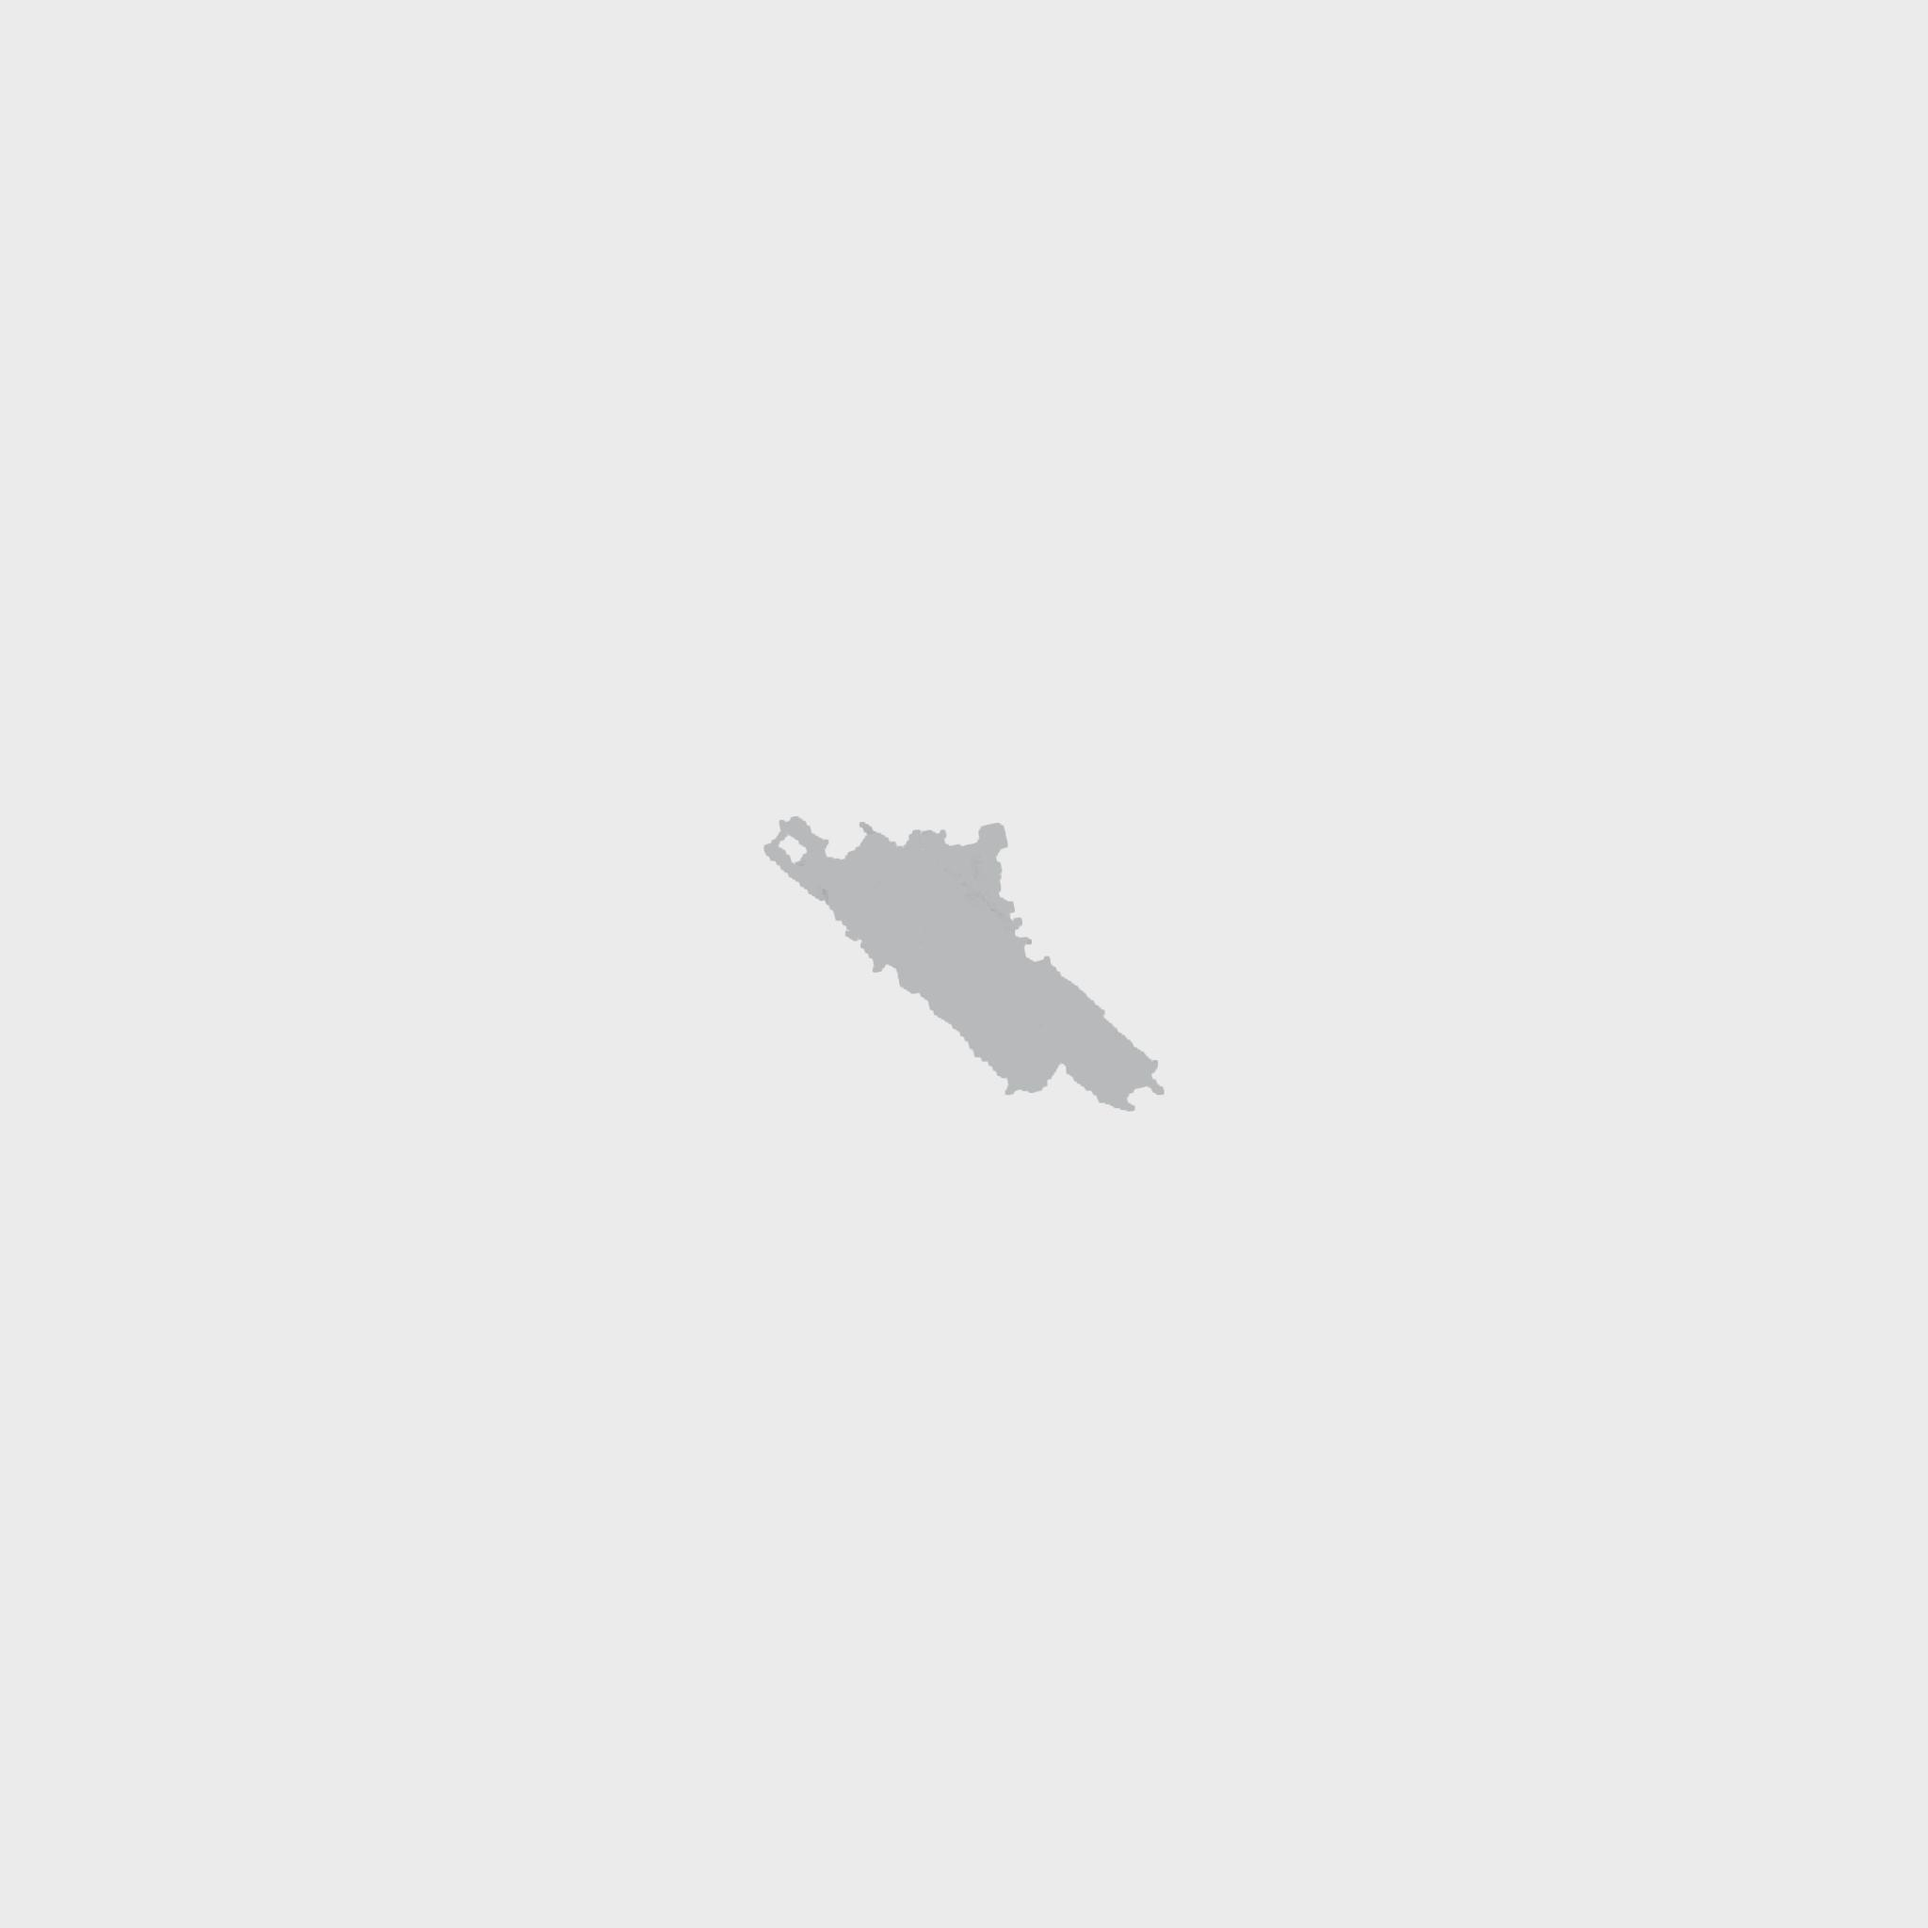
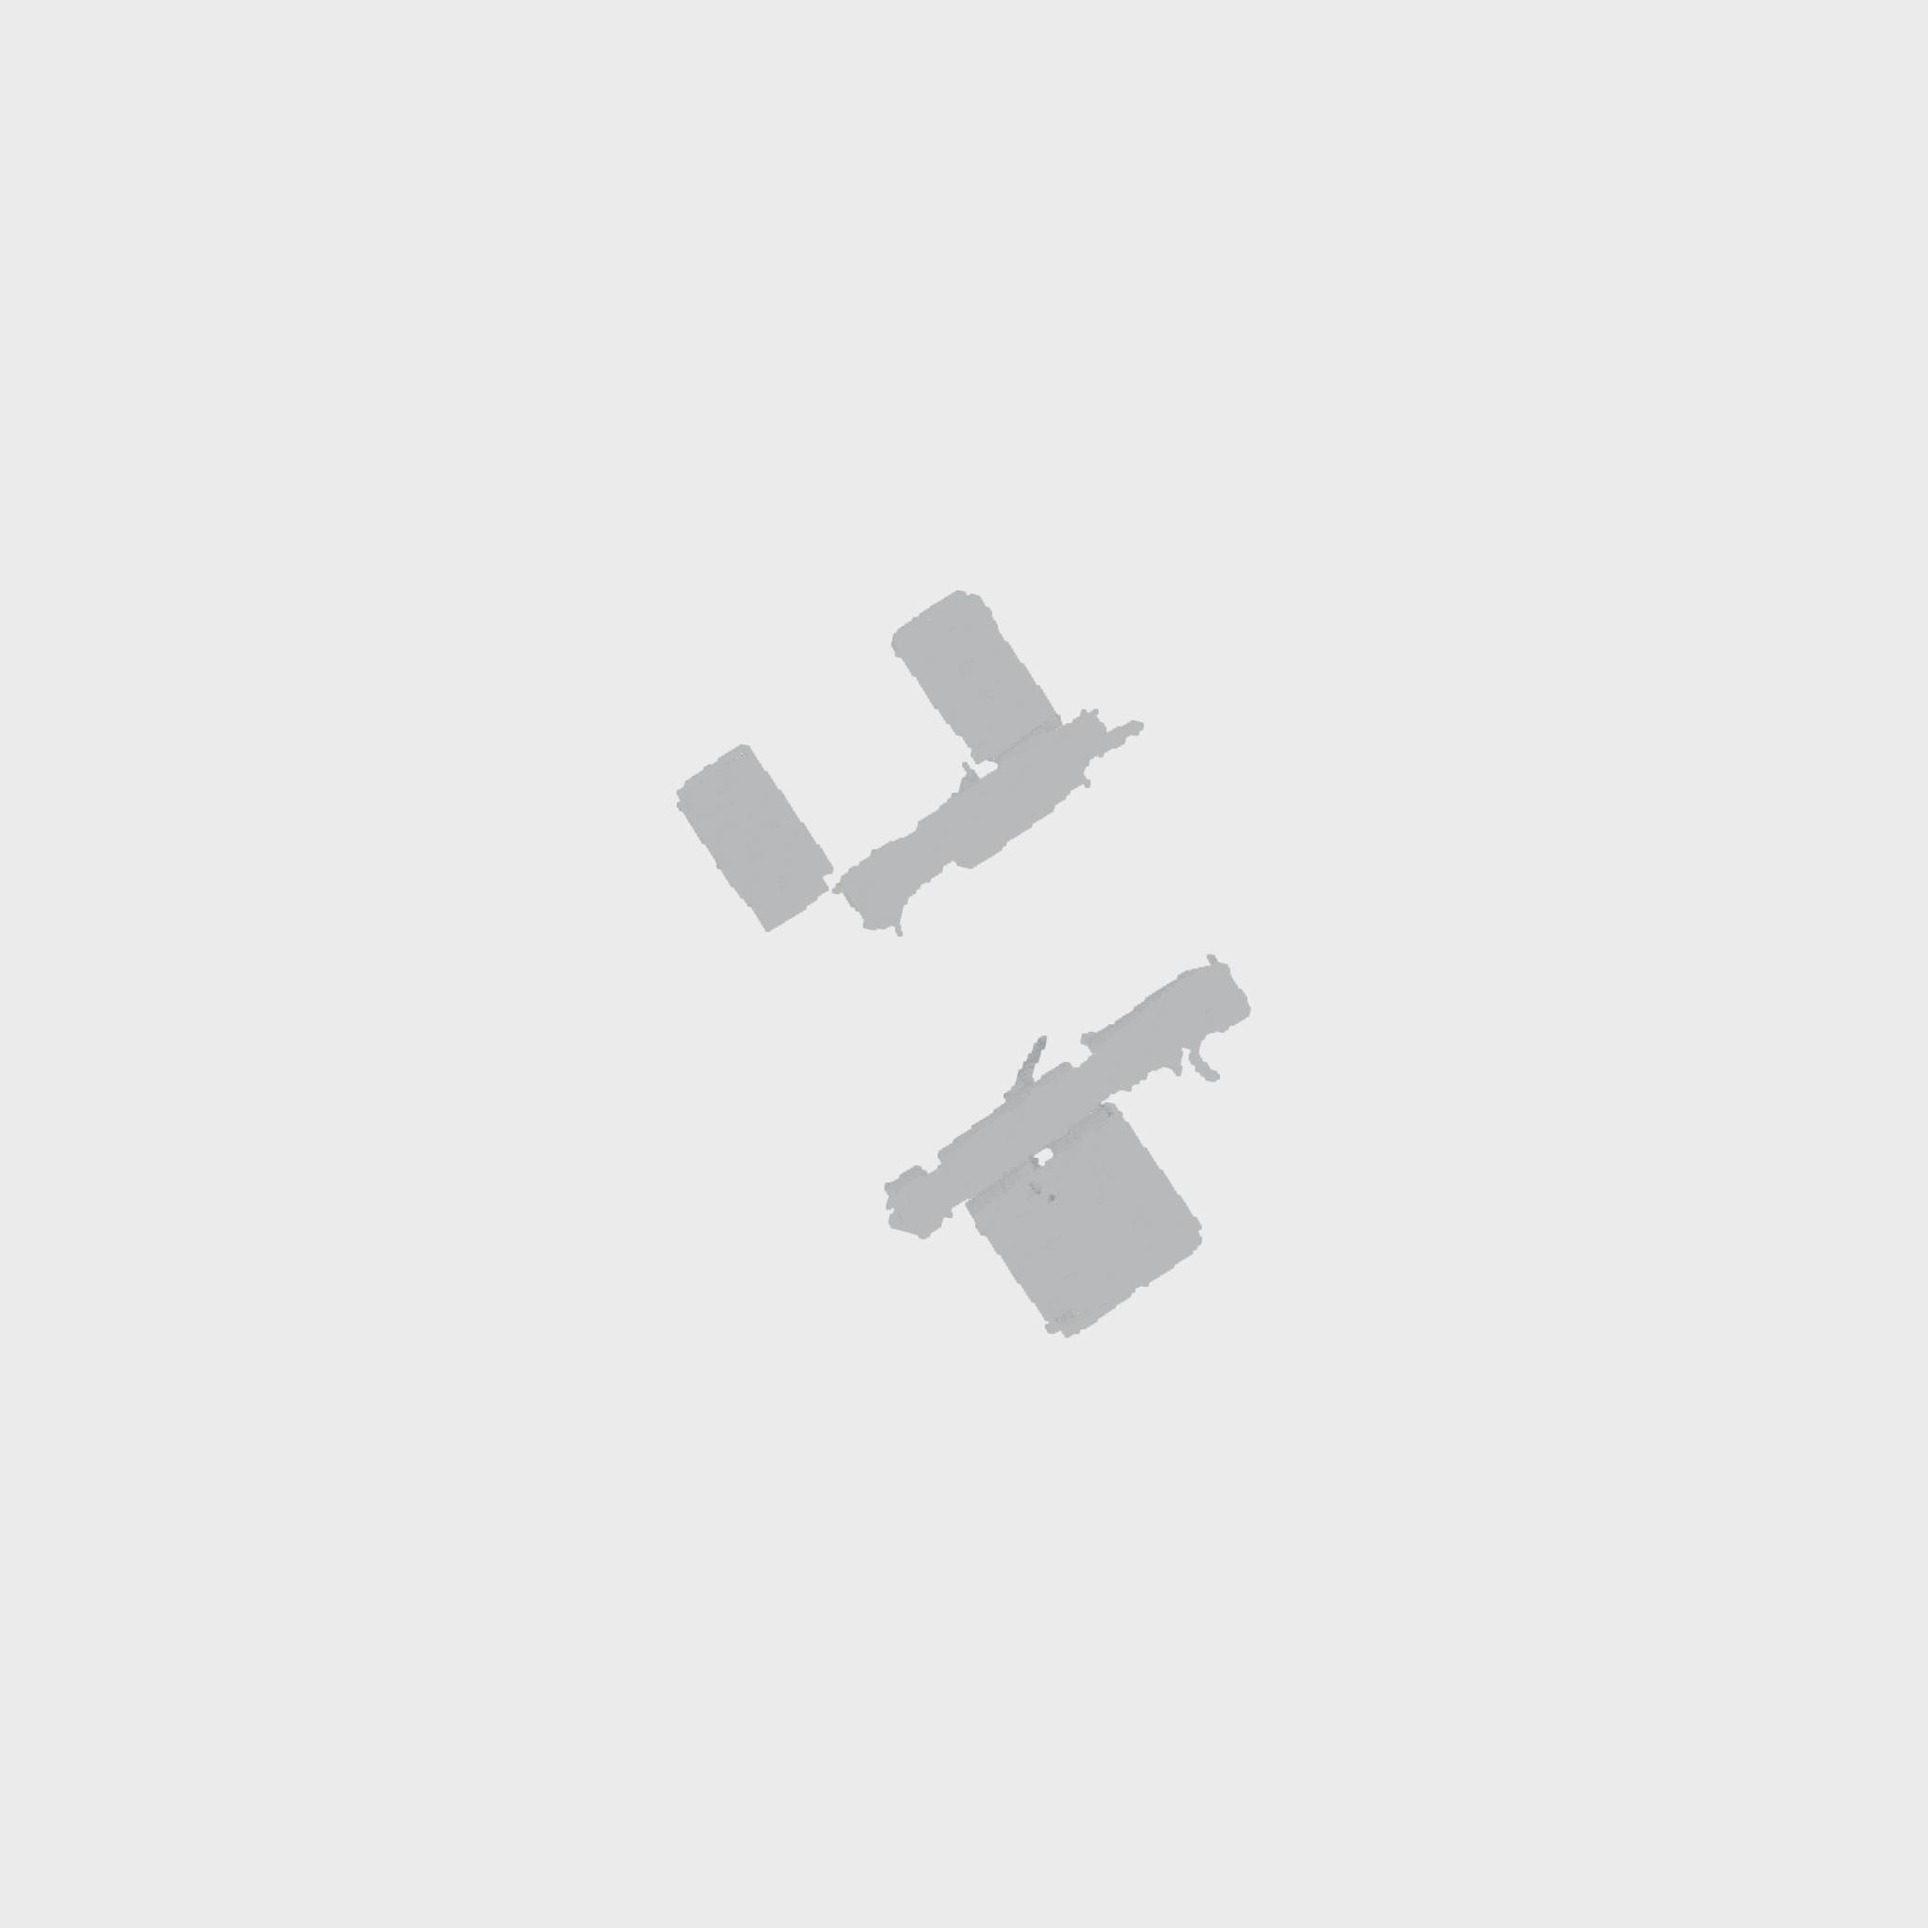
almost dooooone

Changed region(s): [[0.3438, 0.3125, 0.6562, 0.6875]]

diff --git a/src/processing/icp.py b/src/processing/icp.py
@@ -2,7 +2,8 @@ import numpy as np
 from numba import jit
 from sklearn.decomposition import PCA
 from sklearn.neighbors import NearestNeighbors
-
+import logging
+import math
 
 def fpfh_features(pts: np.array):
     import open3d as o3d
@@ -11,7 +12,7 @@ def fpfh_features(pts: np.array):
     pcd.points = o3d.utility.Vector3dVector(pts)
     pcd.estimate_normals()
 
-    return o3d.pipelines.registration.compute_fpfh_feature(pcd, o3d.geometry.KDTreeSearchParamHybrid(radius=0.5, max_nn=100))
+    return o3d.pipelines.registration.compute_fpfh_feature(pcd, o3d.geometry.KDTreeSearchParamHybrid(radius=4, max_nn=100))
 
 
 def _transform(source: np.array, R: np.array, T: np.array):
@@ -21,17 +22,14 @@ def _transform(source: np.array, R: np.array, T: np.array):
     return points
 
 
-def compute_rmse(source: np.array, target: np.array, R: np.array, T: np.array):
-    rmse = 0
-    number = len(target)
+def compute_rmse(source: np.array, target: np.array, R: np.array, T: np.array, tree):
     points = _transform(source, R, T)
-    for i in range(number):
-        error = target[i].reshape(-1, 1)-points[i]
-        rmse += (error[0]**2 + error[1]**2 + error[2]**2)**(1/2)
-    return (rmse / number)**(1/2)
+    
+    dist, nearest = tree.query(np.array(points).squeeze())
+    return np.mean(dist)
 
 
-def registration_RANSAC(s: np.array, t: np.array, source_feature: np.array, target_feature: np.array, normals: np.array, ransac_n=5, max_iteration=200) -> np.array:
+def registration_RANSAC(source: np.array, target: np.array, source_feature: np.array, target_feature: np.array, normals: np.array, ransac_n=3, max_iteration=1000) -> np.array:
     """
 
     Adapted from: https://github.com/withtimesgo1115/3D-point-cloud-global-registration-based-on-RANSAC
@@ -52,28 +50,50 @@ def registration_RANSAC(s: np.array, t: np.array, source_feature: np.array, targ
     from scipy import spatial
     from random import randint
 
+    
+    def triangle_edge_lengths(vxs):
+        ab = np.linalg.norm(vxs[0] - vxs[1])
+        bc = np.linalg.norm(vxs[1] - vxs[2])
+        ca = np.linalg.norm(vxs[2] - vxs[0])
+        
+        return np.array([ab, bc, ca])
+       
     # the intention of RANSAC is to get the optimal transformation between the source and target point cloud
-
     sf = np.transpose(source_feature.data)
     tf = np.transpose(target_feature.data)
+    
     tree = spatial.KDTree(tf)
-    corres_stock = tree.query(sf)[1]
+    dist, corres_stock = tree.query(sf)
+    
+    opt_rmse = math.inf
+    
+    nn_tree = spatial.KDTree(target)
+
 
     for i in range(max_iteration):
         # take ransac_n points randomly
-        idx = [randint(0, s.shape[0]-1) for j in range(ransac_n)]
+        idx = [randint(0, source.shape[0]-1) for j in range(ransac_n)]
         corres_idx = corres_stock[idx]
-        source_point = s[idx, ...]
-        target_point = t[corres_idx, ...]
-
+        source_point = source[idx, ...]
+        target_point = target[corres_idx, ...]
+        
+        source_edge_lengths = triangle_edge_lengths(source_point)
+        target_edge_lengths = triangle_edge_lengths(target_point)
+        
+        edge_ratio = source_edge_lengths * (1/target_edge_lengths)
+        max_ratio = .8
+        if edge_ratio[edge_ratio < max_ratio].any() or edge_ratio[edge_ratio > 1/max_ratio].any():
+            continue
+            
         # estimate transformation
         transform, R, T = best_fit_transform(
             source_point, target_point, normals)
 
         # calculate rmse for all points
-        source_point = s
-        target_point = t[corres_stock, ...]
-        rmse = compute_rmse(source_point, target_point, R, T)
+        # source_point = source
+        # target_point = target[corres_stock, ...]
+        rmse = compute_rmse(source, target, R, T, nn_tree)
+        
         # compare rmse and optimal rmse and then store the smaller one as optimal values
         if not i:
             opt_rmse = rmse
@@ -82,6 +102,9 @@ def registration_RANSAC(s: np.array, t: np.array, source_feature: np.array, targ
             if rmse < opt_rmse:
                 opt_rmse = rmse
                 opt_t = transform
+                
+                logging.info(f"{i}/{max_iteration}: {rmse}")
+
 
     
     return opt_t
@@ -228,12 +251,15 @@ def icp(A, B, max_iterations=1000, tolerance=0.001, n_neighbours=8):
     dst[:m, :] = np.copy(B.T)
 
     # initialize
+        
+    logging.info(f"Finding global alignment")
     global_transformation = align_global(A, B)
     src = np.dot(global_transformation, src)
     transformations.append(global_transformation)
 
-    prev_error = 0
-    for _ in range(max_iterations):
+    logging.info(f"Finding local alignment")
+    prev_error = math.inf
+    for i in range(max_iterations):
         # find the nearest neighbors between the current source and destination points
         distances, indices = nearest_neighbor(src[:m, :].T, dst[:m, :].T)
 
@@ -246,9 +272,11 @@ def icp(A, B, max_iterations=1000, tolerance=0.001, n_neighbours=8):
 
         # check error
         mean_error = np.mean(distances)
-        if np.abs(prev_error - mean_error) < tolerance:
+        if prev_error - mean_error < tolerance:
             break
         prev_error = mean_error
+        
+        logging.info(f"{i}/{max_iterations}: {mean_error}")
 
     composite_transformation = reduce(
         lambda a, b: a.dot(b), reversed(transformations))

diff --git a/src/processing/fuse.py b/src/processing/fuse.py
@@ -3,7 +3,7 @@ from __future__ import annotations
 from model.topometric_map import *
 
 from utils.array import replace_with_unique
-from utils.visualization import visualize_map_merge, visualize_point_cloud
+from utils.visualization import visualize_map_merge, visualize_point_clouds
 from processing.registration import cluster_transform, registration
 
 
@@ -53,8 +53,18 @@ def fuse(matches, registration_method: str) -> Dict[Tuple[TopometricMap, Topomet
                 registration_methods=registration_method,
                 voxel_size=a_geometry.cell_size)
         
-        result, target = a_pcd.transform(final_transform), b_pcd
-        visualize_point_cloud(result.merge(target))
+        result, target = map_a.to_voxel_grid().to_pcd().transform(final_transform), map_b.to_voxel_grid().to_pcd()
+        final_transform, final_error = registration(
+                source=result,
+                target=target,
+                registration_methods=registration_method,
+                voxel_size=a_geometry.cell_size)
+        
+        
+        
+        visualize_point_clouds([result.merge(target), map_a.to_voxel_grid().to_pcd().transform(final_transform).merge(map_b.to_voxel_grid().to_pcd())])
+        
+        transforms[(map_a, map_b)] = final_transform
 
 
         

diff --git a/src/processing/registration.py b/src/processing/registration.py
@@ -65,23 +65,11 @@ def iterative_closest_point(source: PointCloud, target: PointCloud, **kwargs) ->
     from processing.icp import icp
 
     smallest_size = source.size if source.size < target.size else target.size
+    icp_transform, error = icp(source.points[:smallest_size,], target.points[:smallest_size,],  max_iterations=200, tolerance=0.001)
     
-    source_centroid = source.centroid()
-    target_centroid = target.centroid()
-    
-    initial_translation = target_centroid - source_centroid
-    initial_transformation = np.identity(4)
-    initial_transformation[:3, 3] = initial_translation
-       
-    source_center = source.center()
-    target_center = target.center()
-    
-    rigid_transform, error = icp(source_center.points[:smallest_size,], target_center.points[:smallest_size,],  max_iterations=200, tolerance=0.001)
-    rigid_transform = rigid_transform.dot(initial_transformation)
-    
-    visualize_point_clouds([source, target, source.transform(rigid_transform)])
+    visualize_point_clouds([source, target, source.transform(icp_transform)])
 
-    return rigid_transform, error
+    return icp_transform, error
 
 
 def cluster_transform(transforms: List[np.array], algorithm: str = 'optics', **kwargs) -> np.array:
